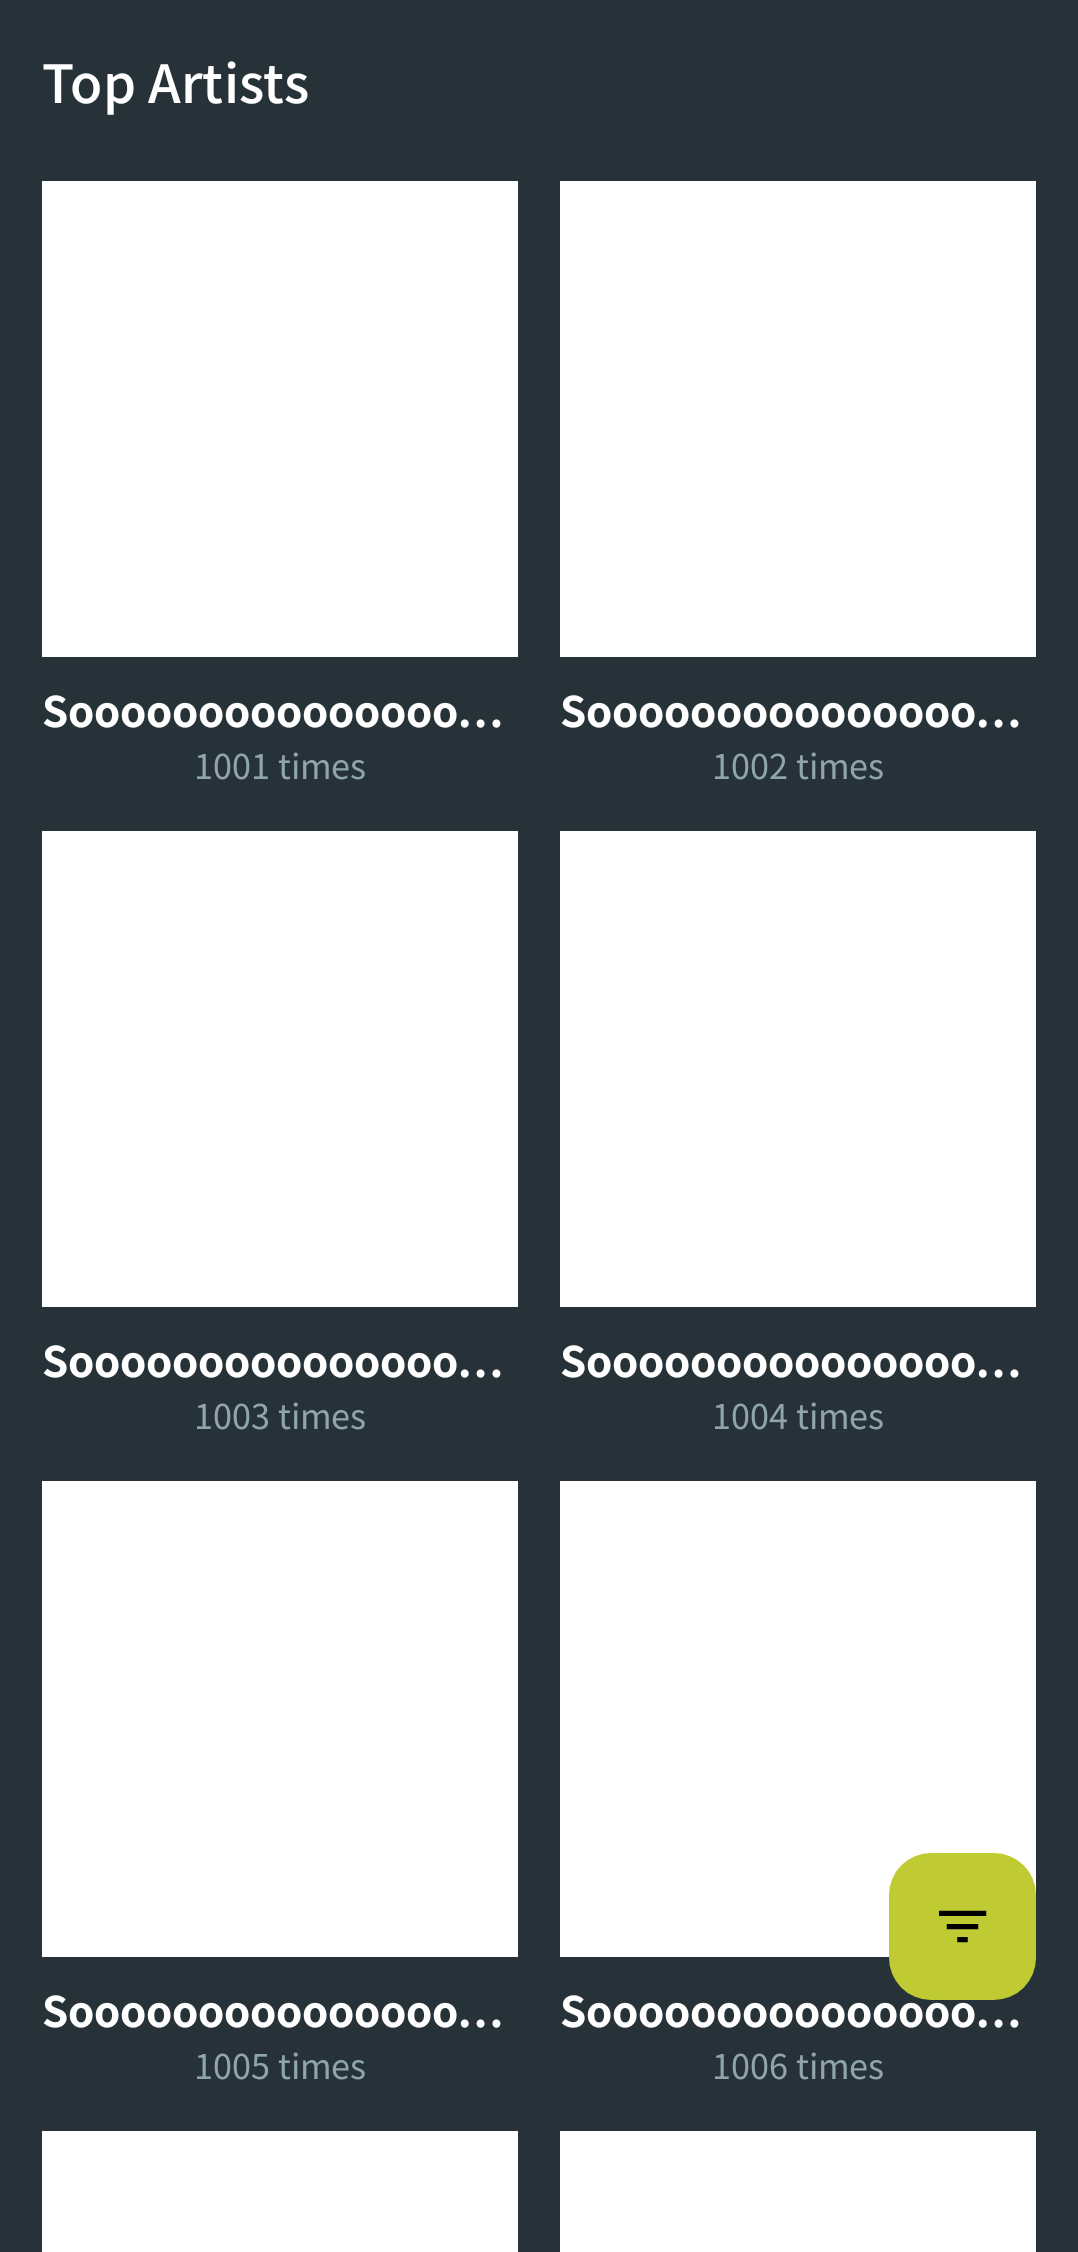
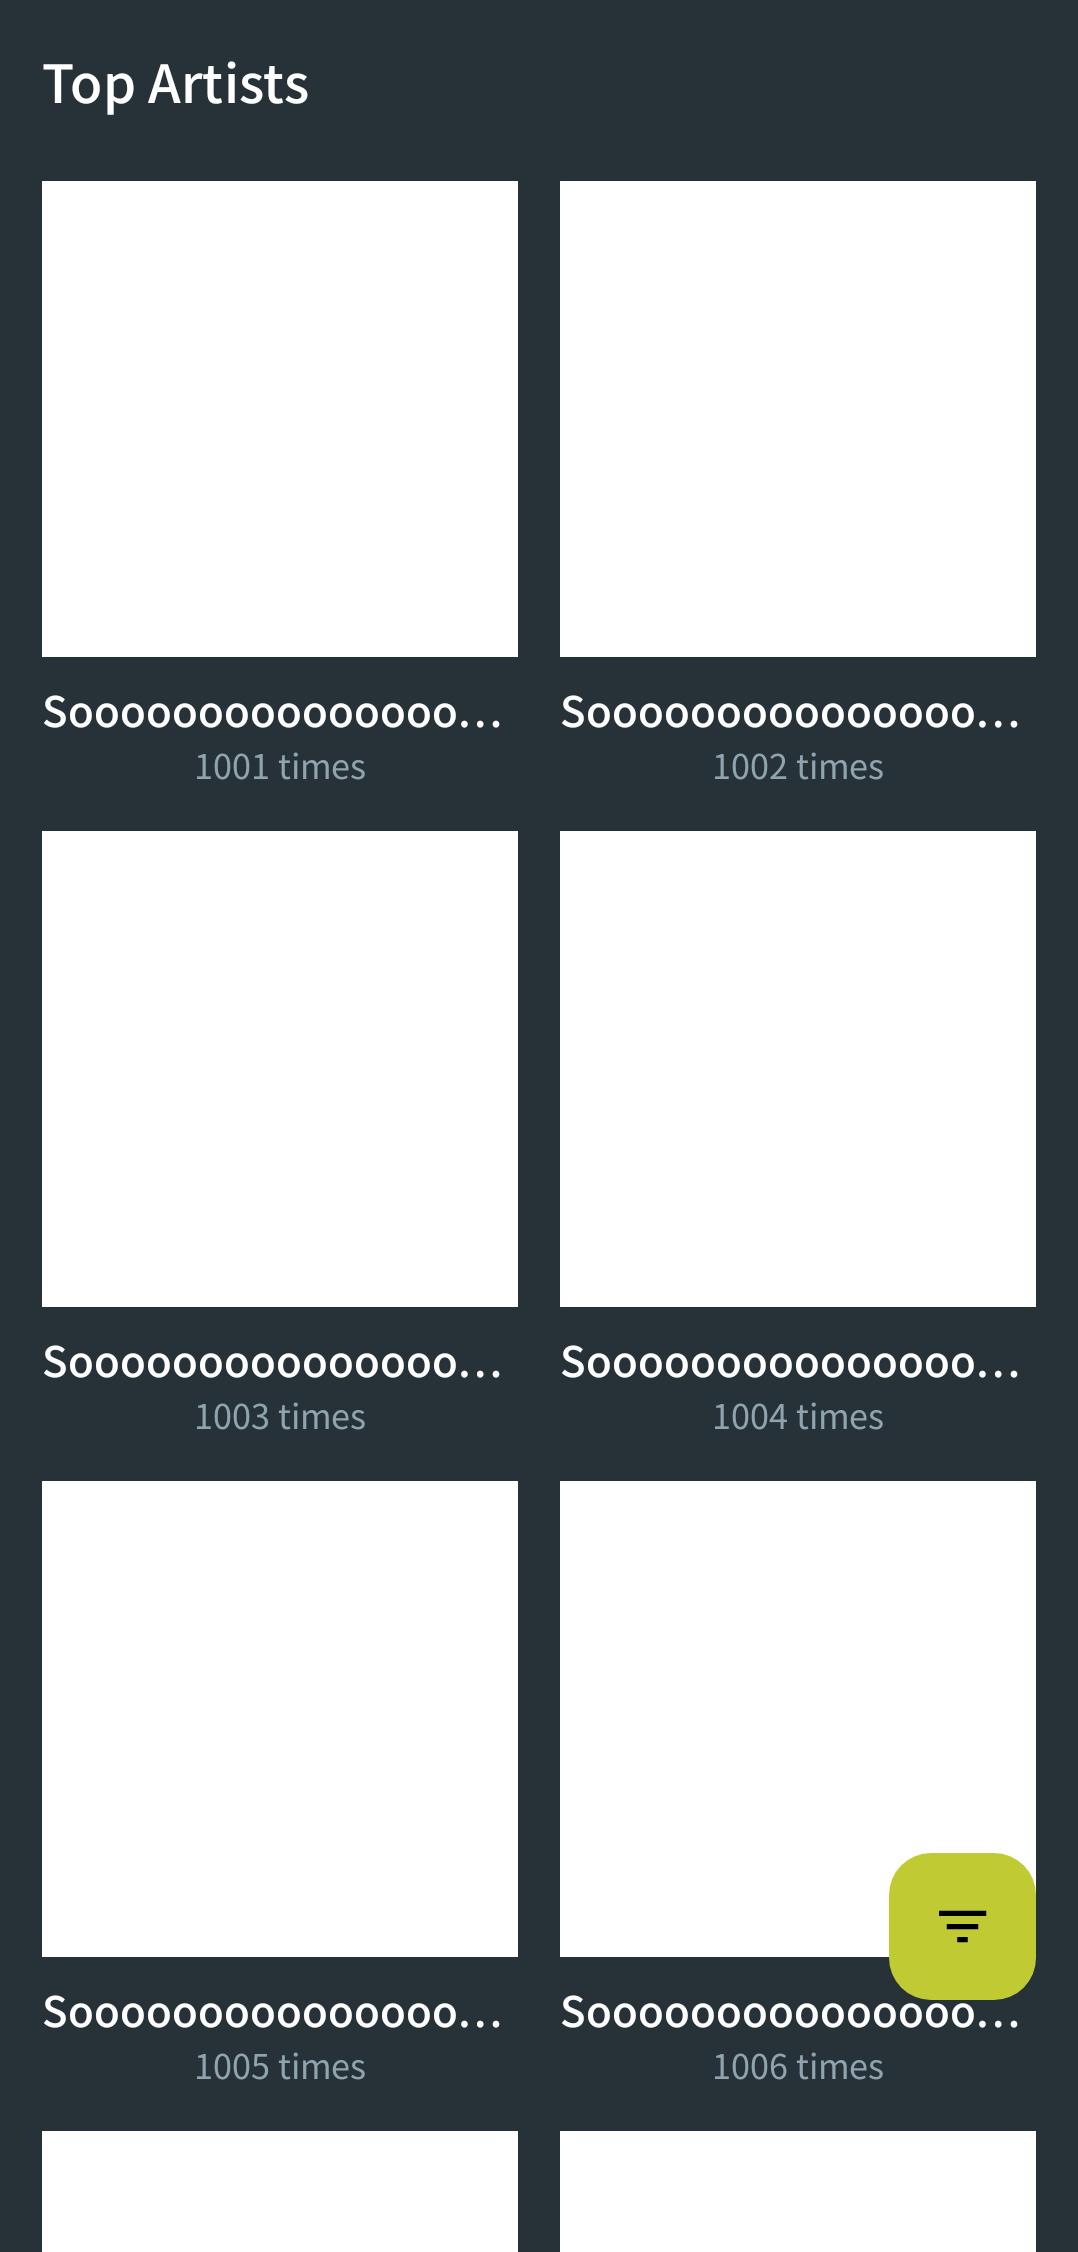
Medium is enough

diff --git a/feature/scrobble/src/main/java/com/mataku/scrobscrob/scrobble/ui/molecule/Scrobble.kt b/feature/scrobble/src/main/java/com/mataku/scrobscrob/scrobble/ui/molecule/Scrobble.kt
@@ -93,7 +93,7 @@ private fun ScrobbleContent(
           maxLines = 1,
           overflow = TextOverflow.Ellipsis,
           style = SunsetTextStyle.body.copy(
-            fontWeight = FontWeight.Bold
+            fontWeight = FontWeight.Medium
           )
         )
 

diff --git a/feature/artist/src/main/java/com/mataku/scrobscrob/artist/ui/molecule/TopArtist.kt b/feature/artist/src/main/java/com/mataku/scrobscrob/artist/ui/molecule/TopArtist.kt
@@ -64,7 +64,7 @@ fun TopArtist(
       artist.name,
       modifier = Modifier,
       style = SunsetTextStyle.body,
-      fontWeight = FontWeight.Bold,
+      fontWeight = FontWeight.Medium,
       maxLines = 1,
       overflow = TextOverflow.Ellipsis
     )

diff --git a/feature/chart/src/main/java/com/mataku/scrobscrob/chart/ui/molecule/ChartTrackCell.kt b/feature/chart/src/main/java/com/mataku/scrobscrob/chart/ui/molecule/ChartTrackCell.kt
@@ -85,7 +85,7 @@ internal fun ChartTrackCell(
         maxLines = 1,
         overflow = TextOverflow.Ellipsis,
         style = SunsetTextStyle.body.copy(
-          fontWeight = FontWeight.Bold
+          fontWeight = FontWeight.Medium
         )
       )
 

diff --git a/feature/album/src/main/java/com/mataku/scrobscrob/album/ui/molecule/TopAlbum.kt b/feature/album/src/main/java/com/mataku/scrobscrob/album/ui/molecule/TopAlbum.kt
@@ -72,7 +72,7 @@ fun TopAlbum(
       maxLines = 1,
       overflow = TextOverflow.Ellipsis,
       style = SunsetTextStyle.body.copy(
-        fontWeight = FontWeight.Bold
+        fontWeight = FontWeight.Medium
       )
     )
     Text(
